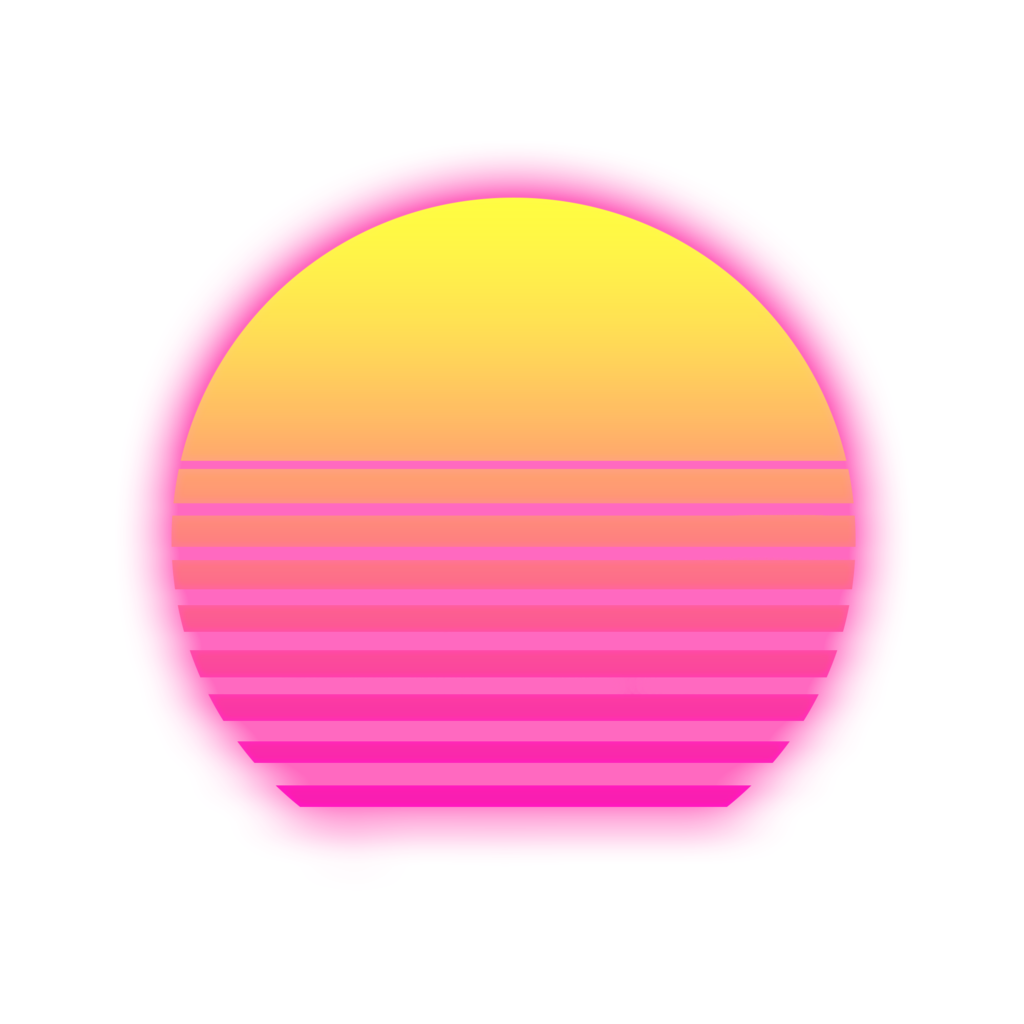
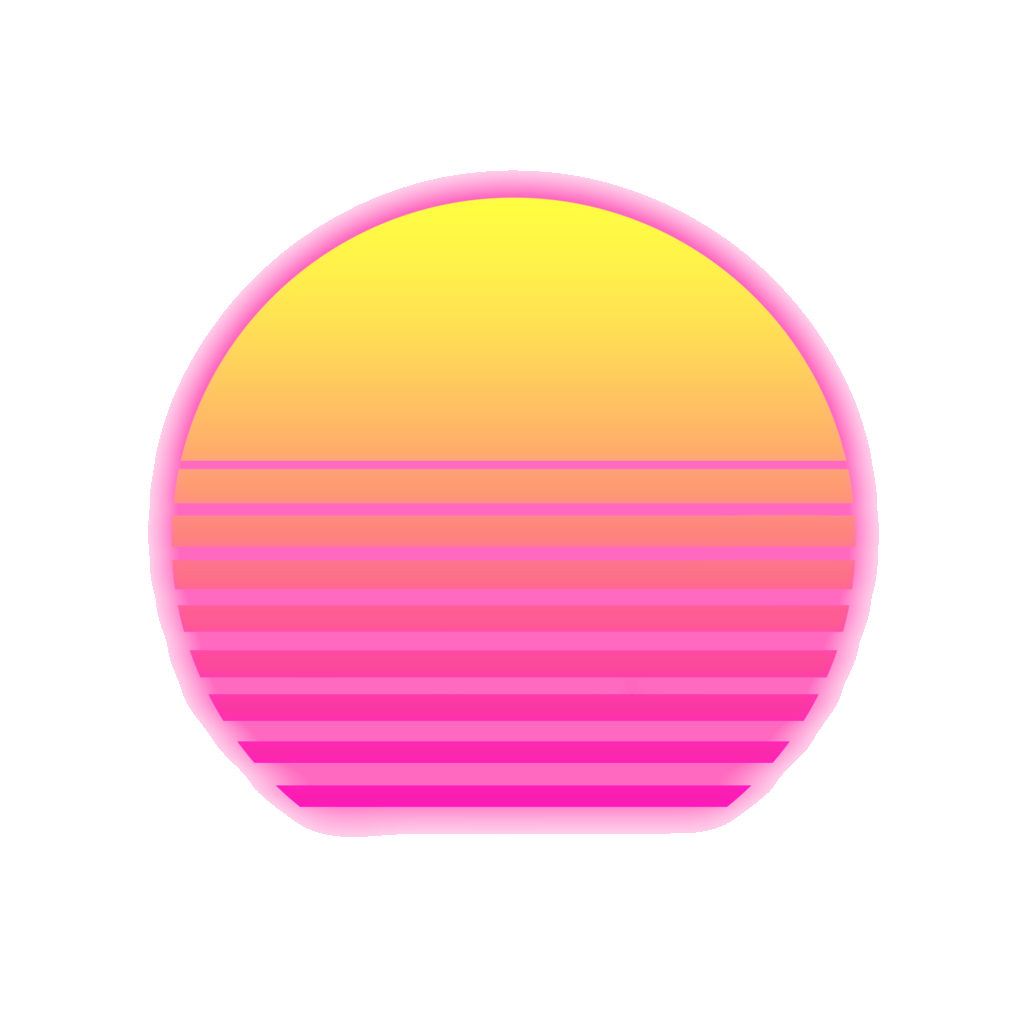
Fix visible borders on Sunset Drive sun image

diff --git a/frontend/src/style.css b/frontend/src/style.css
@@ -1275,6 +1275,7 @@ textarea {
     width: 300px;
     height: 300px;
     position: relative;
+    border-radius: 50%;
     box-shadow: 0 0 100px rgba(249, 115, 22, 0.4);
     margin-bottom: 30px;
     z-index: 1;
@@ -1282,12 +1283,14 @@ textarea {
     align-items: center;
     justify-content: center;
     animation: synth-sun-pulse 4s ease-in-out infinite;
+    overflow: hidden;
 }
 
 .synth-sun img {
     width: 100%;
     height: 100%;
     object-fit: contain;
+    mix-blend-mode: screen;
 }
 
 .synth-sun::after {
